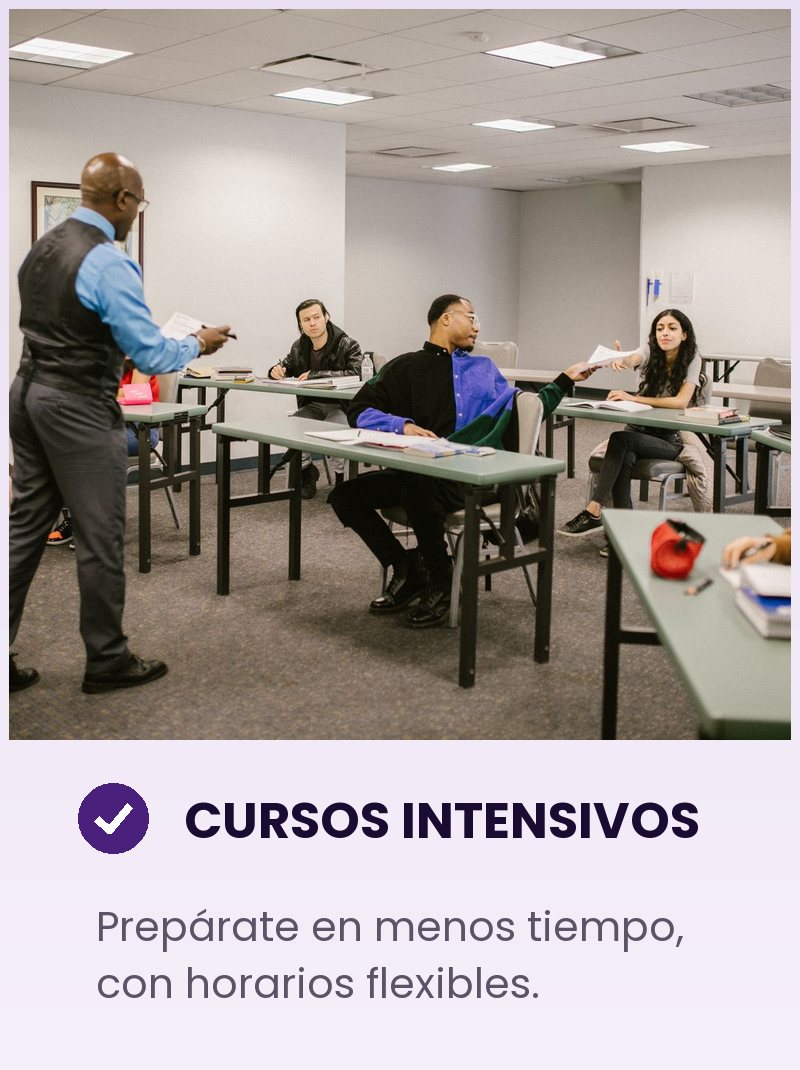
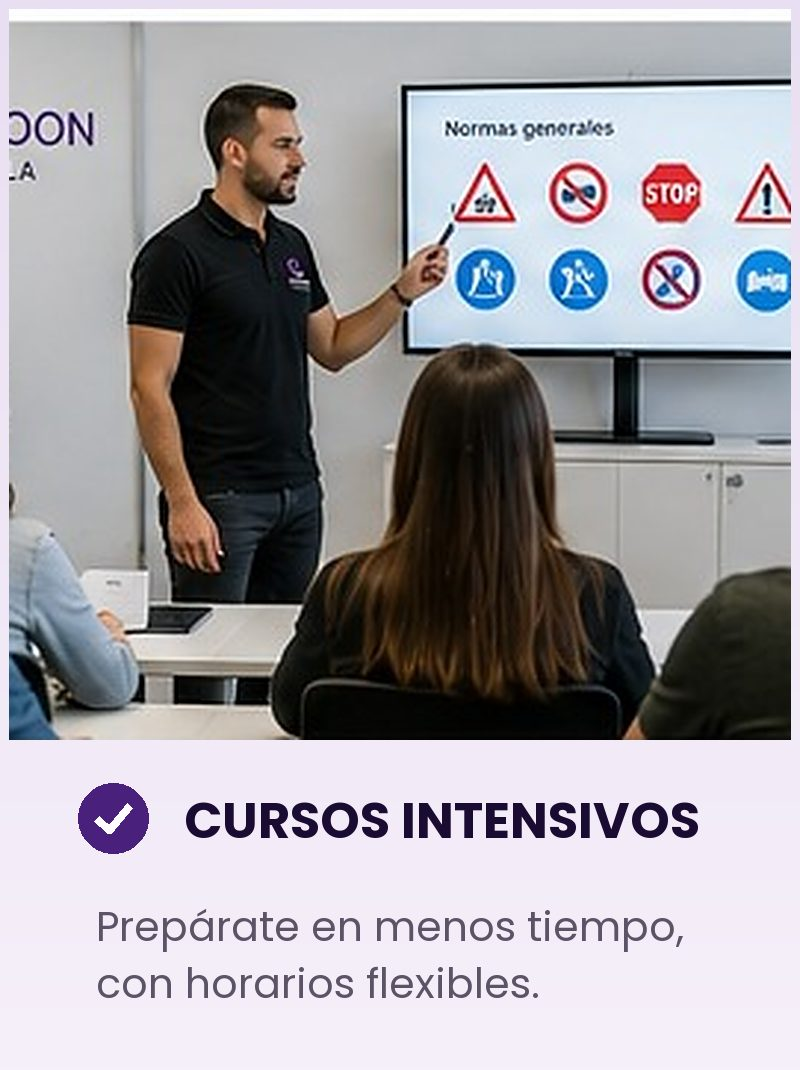
feat: fotos reales de marca en 3 tarjetas y en Sobre nosotros (#2)
Recortadas del collage AUTO1 (único material aprovechable de los 7 ficheros
subidos) y montadas en la misma maqueta de tarjeta, mismas medidas 800x1070:
no cambia el diseño, solo la foto.

- ae-coche.jpeg      -> coche WhiteMoon con cartel L (panel superior izq.)
- ae-intensivos.jpeg -> clase teórica con señales (panel medio izq.)
- ae-puntos.jpeg     -> conducción en carretera con señalización (panel der.)
- ae-flota.jpeg      -> flota de coches con L, nueva, para Sobre nosotros
- og.jpg             -> regenerado desde la nueva tarjeta de coche
- index.html         -> Sobre nosotros pasa de ae-coche.jpeg a ae-flota.jpeg,
                        con alt propio. Único cambio de marcado.

Carnet moto y Carnets pesados siguen con las fotos de stock: no hay
material real de moto ni de vehículos pesados.

Se retiran de la raíz los AUTO1-7.jpeg. No se publican AUTO2/AUTO3 (piezas
de fondo oscuro con reseñas y cifras inventadas incrustadas) ni AUTO4/AUTO5
(resolución insuficiente). Siguen en el historial: git show 79f4c8e:AUTOn.jpeg

diff --git a/index.html b/index.html
@@ -278,7 +278,7 @@
   <div class="wrap">
     <div class="about__grid">
       <div class="about__media reveal">
-        <img src="assets/ae-coche.jpeg" alt="Carnet de coche B: clases prácticas y teóricas para el permiso B" loading="lazy" width="800" height="1070">
+        <img src="assets/ae-flota.jpeg" alt="Nuestra flota: coches modernos y cuidados para tus prácticas" loading="lazy" width="800" height="1070">
       </div>
       <div>
         <span class="eyebrow reveal">Sobre nosotros</span>
